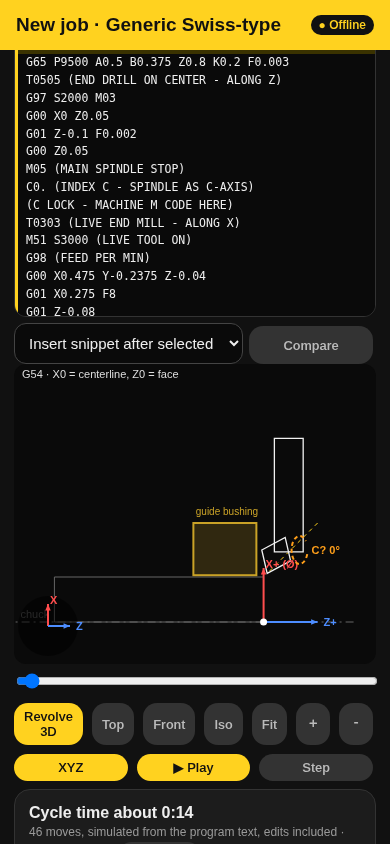
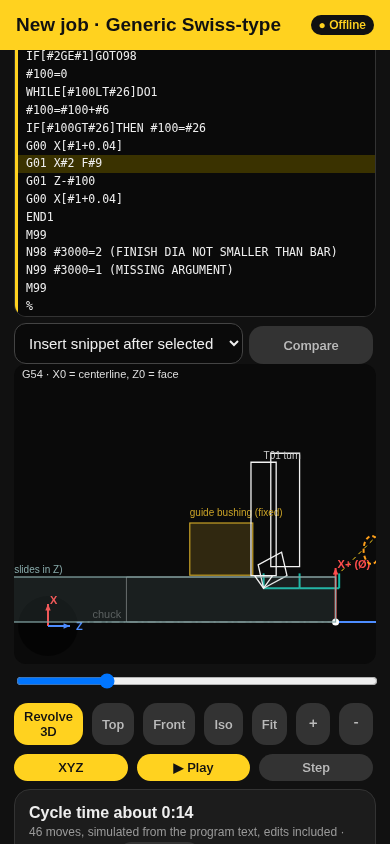
Round 11: Swiss sliding headstock sim, distinct gang tools, sub spindle, shots 34-36 retaken

diff --git a/index.html b/index.html
@@ -693,19 +693,25 @@ const _checks11=checks;checks=function(j){const c=_checks11(j);if(j.op!='swiss')
  if(v('Cross Ø')!=null)c.push(['Cross drill depth < radius',v('Cross depth')<v('Finish Ø')/2]);if(v('Flat depth')!=null)c.push(['Flat depth < radius',v('Flat depth')<v('Finish Ø')/2]);
  const L=t.split('\n'),pi=L.map((l,i)=>/PART OFF/.test(l)?i:-1).filter(i=>i>=0).pop(),mi=L.findIndex(l=>/^M30/.test(l));c.push(['Part-off is the last cut before M30',pi!=null&&pi>=0&&pi<mi&&!L.slice(pi+1,mi).some(l=>/^G0?1\b/.test(l))]);return c};
 // sim: bushing, gang tools, C angle
-function swTool(l){const L=txt();for(let i=l;i>=0;i--){const m=(L[i]||'').match(/^T(\d\d)/);if(m)return +m[1]}return 1}
-const _draw11=draw;draw=function(){_draw11();if(!J||!J.swiss||!ctx)return;const M=J.M||[],n=Math.min(view.n,M.length),m=M[n-1],t=m?m.b:[J.lb.R+0.3,0,0.3],R=J.lb.R,flat=!view.rev;
+function swTool(l){const L=txt();const e=L.findIndex(x=>/^M30/.test(x));if(e>=0&&l>e)return 1;for(let i=l;i>=0;i--){const m=(L[i]||'').match(/^T(\d\d)/);if(m)return +m[1]}return 1}
+const _draw11=draw;draw=function(){if(!J||!J.swiss||!ctx)return _draw11();const M0=J.M||[],m0=M0[Math.min(view.n,M0.length)-1],sh=(!view.rev&&m0)?m0.b[2]:0;view.fz0+=sh;try{_draw11()}finally{view.fz0-=sh}if(!view.rev)view.fz0+=sh;try{sw2()}finally{if(!view.rev)view.fz0-=sh}};
+function sw2(){const M=J.M||[],n=Math.min(view.n,M.length),m=M[n-1],t=m?m.b:[J.lb.R+0.3,0,0.3],R=J.lb.R,flat=!view.rev;
  const lines=txt();let ca=0;if(m)for(let i=m.l;i>=0;i--){const q=(lines[i]||'').toUpperCase().match(/\bC(-?[\d.]+)/);if(q){ca=+q[1];break}}
- const zb=Math.min(0.05,t[2]-0.06);// bushing sits just behind the cut
- ctx.setLineDash([]);ctx.strokeStyle='#c9a227';ctx.fillStyle='#c9a22733';
- const box=(r0,r1,z0,z1)=>{const a=P([r0,0,z0]),b=P([r1,0,z1]);ctx.fillRect(Math.min(a[0],b[0]),Math.min(a[1],b[1]),Math.abs(b[0]-a[0]),Math.abs(b[1]-a[1]));ctx.strokeRect(Math.min(a[0],b[0]),Math.min(a[1],b[1]),Math.abs(b[0]-a[0]),Math.abs(b[1]-a[1]))};
- if(flat){box(R+0.01,R+0.3,zb-0.35,zb);const q=P([R+0.32,0,zb-0.17]);ctx.fillStyle='#c9a227';ctx.font='10px -apple-system,sans-serif';ctx.fillText('guide bushing',q[0]-30,q[1]-4)}
- // gang tool at tip
+ const zb=Math.min(0,t[2])-0.06;// bushing fixed in machine, just behind the cut; bar slides
+ const box=(r0,r1,z0,z1,c,f)=>{ctx.strokeStyle=c;ctx.fillStyle=f;const a=P([r0,0,z0]),b=P([r1,0,z1]);const x=Math.min(a[0],b[0]),y=Math.min(a[1],b[1]),w=Math.abs(b[0]-a[0]),h=Math.abs(b[1]-a[1]);ctx.fillRect(x,y,w,h);ctx.strokeRect(x,y,w,h)};
+ const lab=(p,s,c)=>{const q=P(p);ctx.fillStyle=c;ctx.font='10px -apple-system,sans-serif';ctx.fillText(s,q[0],q[1])};
+ ctx.setLineDash([]);ctx.lineWidth=1.2;
+ if(flat){const L=(J.p.Length||{v:1}).v;box(0,R,-L-1.2,0,'#8aa','#8aa2');lab([R+0.02,0,-L-1.1],'bar (slides in Z)','#8aa');
+  box(R+0.01,R+0.3,zb-0.35,zb,'#c9a227','#c9a22733');box(-R-0.3,-R-0.01,zb-0.35,zb,'#c9a227','#c9a22733');lab([R+0.34,0,zb-0.35],'guide bushing (fixed)','#c9a227');
+  const sub=sv('Sub spindle');if(sub&&!/^no|^none|^0/i.test(String(sub.v))){const tt0=swTool(m?m.l:0),zs=tt0==2?t[2]+0.03:Math.max(0.6,t[2]+0.6);box(-R-0.2,R+0.2,zs,zs+0.45,'#7fb3ff','#7fb3ff22');lab([R+0.24,0,zs],'sub spindle'+(tt0==2?' (pick-off)':''),'#7fb3ff')}}
  const tt=swTool(m?m.l:0);ctx.strokeStyle='#f2f2f2';ctx.lineWidth=1.3;const o=(dr,dz)=>[t[0]+dr,0,t[2]+dz];
- if(tt==3||tt==4){const d=tt==3?0.06:(J.p['Cross Ø']||{v:.1}).v/2;poly([o(0,-d),o(0,d),o(0.6,d),o(0.6,-d)]);ln(o(0,0),o(0.6,0))}
- else if(tt==5){const d=0.04;poly([o(-d,0),o(d,0),o(d,0.6),o(-d,0.6)])}
- else if(tt==2){poly([o(0,0),o(0,-0.06),o(0.45,-0.06),o(0.45,0)])}
- // C arrow + angle
+ const flutes=(x0,x1,d,alongZ)=>{for(let k=x0;k<x1-0.04;k+=0.07)ln(alongZ?o(-d,k):o(k,-d),alongZ?o(d,k+0.05):o(k+0.05,d))};
+ if(tt==1){poly([o(0,0),o(0.07,-0.05),o(0.07,0.05)]);poly([o(0.07,-0.07),o(0.07,0.07),o(0.7,0.07),o(0.7,-0.07)]);lab(o(0.72,0),'T01 turn','#ccc')}
+ else if(tt==3){const d=0.06;poly([o(0,-d),o(0,d),o(0.35,d),o(0.35,-d)]);flutes(0,0.3,d,0);poly([o(0.35,-0.12),o(0.35,0.12),o(0.6,0.12),o(0.6,-0.12)]);lab(o(0.62,0),'T03 live end mill','#ccc')}
+ else if(tt==4){const d=Math.max(0.03,(J.p['Cross Ø']||{v:.1}).v/2);poly([o(0,0),o(0.05,-d),o(0.4,-d),o(0.4,d),o(0.05,d)]);flutes(0.05,0.38,d,0);poly([o(0.4,-0.12),o(0.4,0.12),o(0.65,0.12),o(0.65,-0.12)]);lab(o(0.67,0),'T04 live cross drill','#ccc')}
+ else if(tt==5){const d=0.04;poly([o(0,0),o(-d,0.05),o(-d,0.55),o(d,0.55),o(d,0.05)]);flutes(0.05,0.5,d,1);lab(o(0.06,0.3),'T05 end drill','#ccc')}
+ else if(tt==2){poly([o(0,-0.01),o(0,0.01),o(0.6,0.01),o(0.6,-0.01)]);lab(o(0.62,0),'T02 part-off','#ccc')}
+// C arrow + angle
  const cpos=P([R+0.15,0,0.2]);ctx.strokeStyle='#ff9f1a';ctx.lineWidth=2;const ok=(sv('C-axis')||{}).st=='user';ctx.setLineDash(ok?[]:[4,3]);ctx.beginPath();ctx.ellipse(cpos[0],cpos[1],8,14,0,0.3,5.6);ctx.stroke();ctx.setLineDash([]);ctx.fillStyle='#ff9f1a';ctx.font='bold 11px -apple-system,sans-serif';ctx.fillText(`C${ok?'':'?'} ${ca}°`,cpos[0]+12,cpos[1]+4);
  const el=$('#tpos');if(el&&m)el.innerHTML+=` <b style="color:#ff9f1a">C${ca}°</b> · T${String(tt).padStart(2,'0')}`};
 

diff --git a/test/ui-test5.html b/test/ui-test5.html
@@ -1,4 +1,4 @@
-<!doctype html><body><pre id="o"></pre><iframe id="f" src="../index.html?v=12" style="width:390px;height:844px"></iframe><script>
+<!doctype html><body><pre id="o"></pre><iframe id="f" src="../index.html?v=13" style="width:390px;height:844px"></iframe><script>
 const out=[],log=(n,ok)=>out.push((ok?'PASS ':'FAIL ')+n);let first=1;
 f.onload=()=>{const w=f.contentWindow;if(first){first=0;w.localStorage.clear();w.location.reload();return}
  setTimeout(async()=>{const d=w.document,E=x=>w.eval(x),cl=()=>d.querySelector('#cl').textContent;w.confirm=()=>true;try{

diff --git a/test/shots7.html b/test/shots7.html
@@ -1,4 +1,4 @@
-<!doctype html><body style="margin:0;background:#111"><iframe id="f" src="../index.html?v=12" style="width:390px;height:1500px;border:0"></iframe><script>
+<!doctype html><body style="margin:0;background:#111"><iframe id="f" src="../index.html?v=13" style="width:390px;height:1500px;border:0"></iframe><script>
 let first=1;const job=new URLSearchParams(location.search);
 f.onload=()=>{const w=f.contentWindow;if(first){first=0;w.localStorage.clear();w.location.reload();return}
  setTimeout(()=>{const E=x=>w.eval(x),k=job.get('k');w.confirm=()=>true;

diff --git a/test/ui-test6.html b/test/ui-test6.html
@@ -1,4 +1,4 @@
-<!doctype html><body><pre id="o"></pre><iframe id="f" src="../index.html?v=12" style="width:390px;height:844px"></iframe><script>
+<!doctype html><body><pre id="o"></pre><iframe id="f" src="../index.html?v=13" style="width:390px;height:844px"></iframe><script>
 const out=[],log=(n,ok)=>out.push((ok?'PASS ':'FAIL ')+n);let first=1;
 f.onload=()=>{const w=f.contentWindow;if(first){first=0;w.localStorage.clear();w.location.reload();return}
  setTimeout(async()=>{const d=w.document,E=x=>w.eval(x);w.confirm=()=>true;try{

diff --git a/test/ui-test4.html b/test/ui-test4.html
@@ -1,4 +1,4 @@
-<!doctype html><body><pre id="o"></pre><iframe id="f" src="../index.html?v=12" style="width:390px;height:844px"></iframe><script>
+<!doctype html><body><pre id="o"></pre><iframe id="f" src="../index.html?v=13" style="width:390px;height:844px"></iframe><script>
 const out=[],log=(n,ok)=>out.push((ok?'PASS ':'FAIL ')+n);let first=1;
 f.onload=()=>{const w=f.contentWindow;if(first){first=0;w.localStorage.clear();w.location.reload();return}
  setTimeout(()=>{const d=w.document,E=x=>w.eval(x);w.confirm=()=>true;try{

diff --git a/test/ui-test8.html b/test/ui-test8.html
@@ -1,4 +1,4 @@
-<!doctype html><body><pre id="o"></pre><iframe id="f" src="../index.html?v=12" style="width:390px;height:844px"></iframe><script>
+<!doctype html><body><pre id="o"></pre><iframe id="f" src="../index.html?v=13" style="width:390px;height:844px"></iframe><script>
 const out=[],log=(n,ok)=>out.push((ok?'PASS ':'FAIL ')+n);let first=1;
 f.onload=()=>{const w=f.contentWindow;if(first){first=0;w.localStorage.clear();w.location.reload();return}
  setTimeout(()=>{const d=w.document,E=x=>w.eval(x);w.confirm=()=>true;try{

diff --git a/test/ui-test.html b/test/ui-test.html
@@ -1,4 +1,4 @@
-<!doctype html><body style="background:#fff"><pre id="o"></pre><iframe id="f" src="../index.html?v=12" style="width:390px;height:844px"></iframe><script>
+<!doctype html><body style="background:#fff"><pre id="o"></pre><iframe id="f" src="../index.html?v=13" style="width:390px;height:844px"></iframe><script>
 const out=[],log=(n,ok)=>out.push((ok?'PASS ':'FAIL ')+n);
 f.onload=()=>{const w=f.contentWindow,d=w.document;try{
  if(!window.r){window.r=1;w.localStorage.clear();w.location.reload();return}}catch(e){}

diff --git a/test/ui-test10.html b/test/ui-test10.html
@@ -1,4 +1,4 @@
-<!doctype html><body><pre id="o"></pre><iframe id="f" src="../index.html?v=12" style="width:390px;height:844px"></iframe><script>
+<!doctype html><body><pre id="o"></pre><iframe id="f" src="../index.html?v=13" style="width:390px;height:844px"></iframe><script>
 const out=[],log=(n,ok)=>out.push((ok?'PASS ':'FAIL ')+n);let first=1;
 f.onload=()=>{const w=f.contentWindow;if(first){first=0;w.localStorage.clear();w.location.reload();return}
  setTimeout(()=>{const d=w.document,E=x=>w.eval(x);try{

diff --git a/test/ui-test9.html b/test/ui-test9.html
@@ -1,4 +1,4 @@
-<!doctype html><body><pre id="o"></pre><iframe id="f" src="../index.html?v=12" style="width:390px;height:844px"></iframe><script>
+<!doctype html><body><pre id="o"></pre><iframe id="f" src="../index.html?v=13" style="width:390px;height:844px"></iframe><script>
 const out=[],log=(n,ok)=>out.push((ok?'PASS ':'FAIL ')+n);let first=1;
 f.onload=()=>{const w=f.contentWindow;if(first){first=0;w.localStorage.clear();w.location.reload();return}
  setTimeout(()=>{const d=w.document,E=x=>w.eval(x);try{

diff --git a/sw.js b/sw.js
@@ -1,2 +1,2 @@
-const C='mc-v6';self.addEventListener('install',e=>e.waitUntil(caches.open(C).then(c=>c.addAll(['./','index.html','manifest.json']))));
+const C='mc-v7';self.addEventListener('install',e=>e.waitUntil(caches.open(C).then(c=>c.addAll(['./','index.html','manifest.json']))));
 self.addEventListener('fetch',e=>e.respondWith(caches.match(e.request).then(r=>r||fetch(e.request))));
